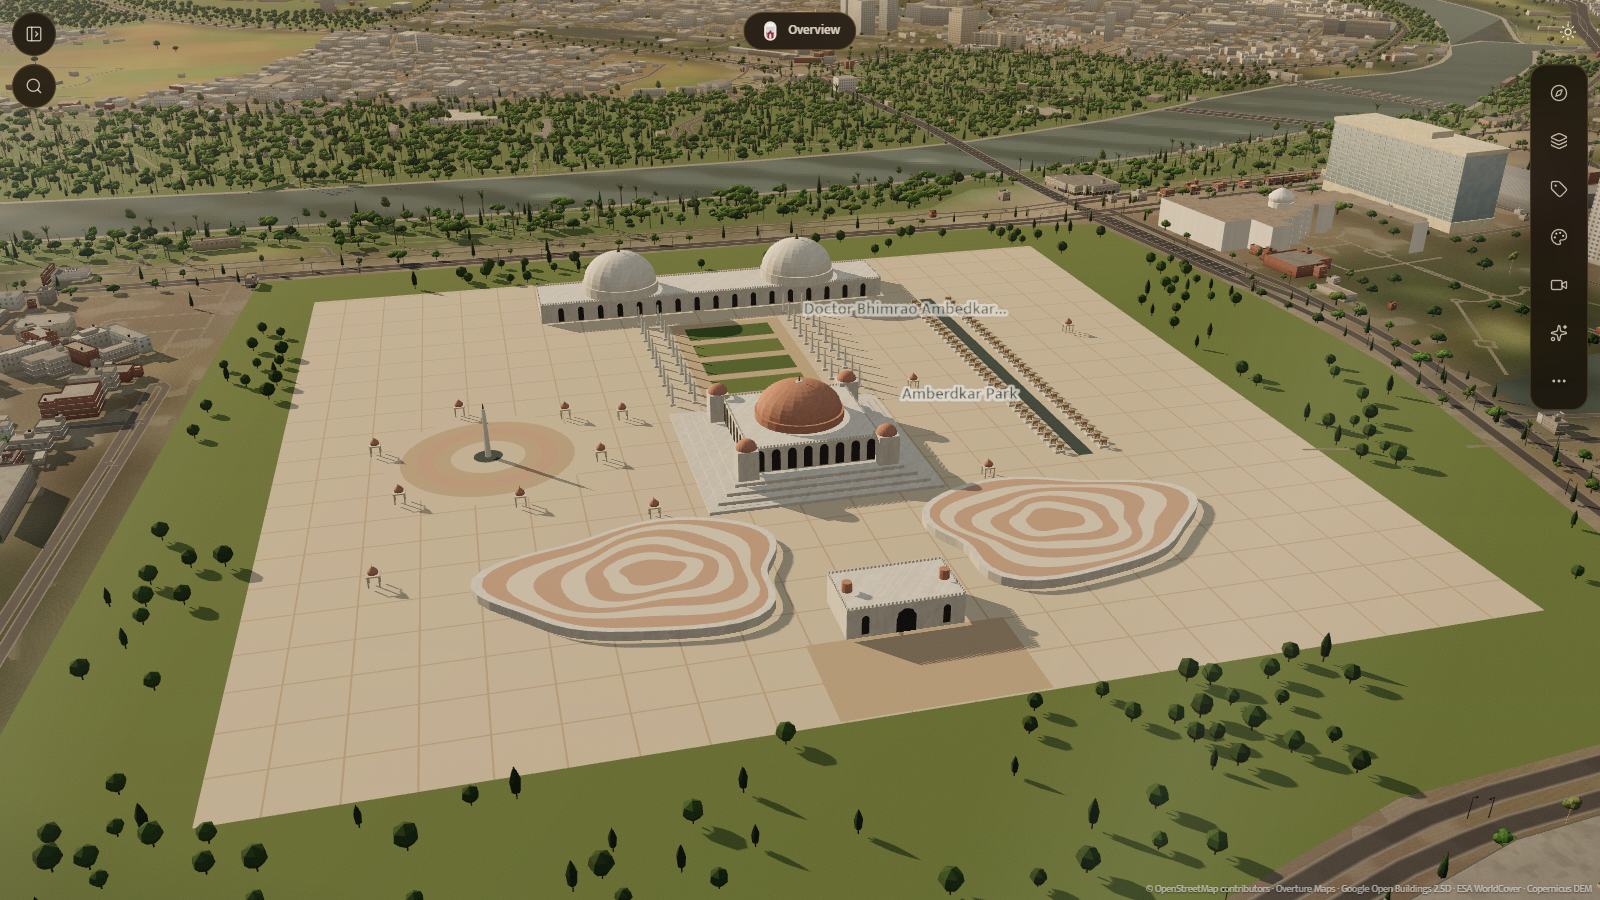
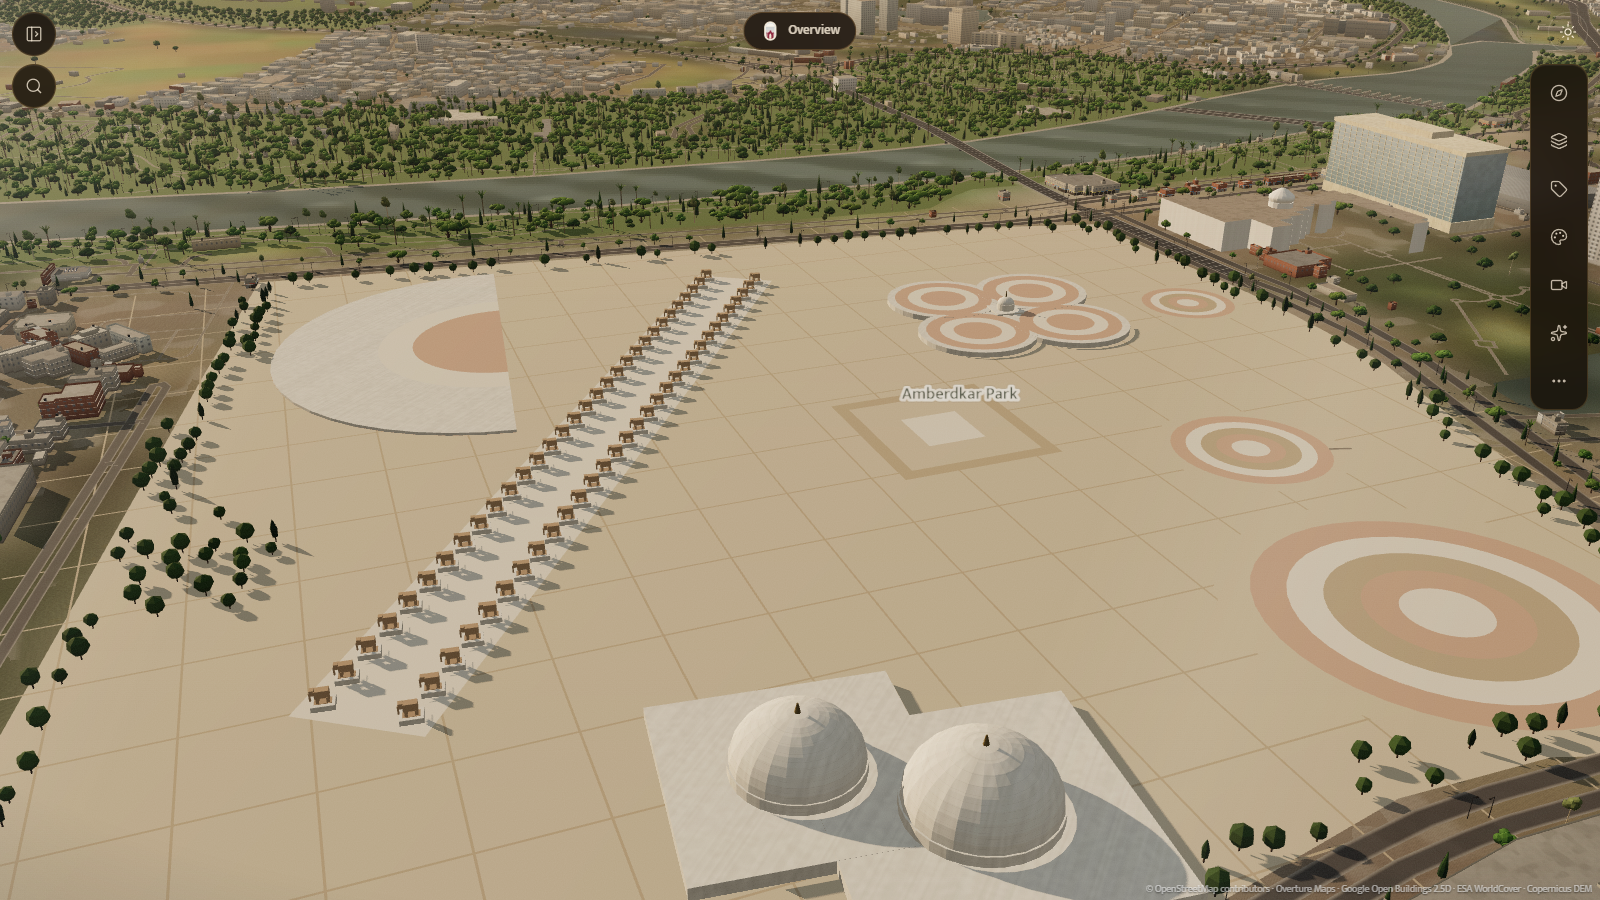
feat(3d): Ambedkar Memorial second rebuild to match reference composition

diff --git a/src/city/landmarks.ts b/src/city/landmarks.ts
@@ -409,19 +409,25 @@ function chhotaImambara(k: Kit, g: Grounds, s: LandmarkSite): void {
 }
 
 function ambedkarMemorial(k: Kit, g: Grounds, s: LandmarkSite): void {
-  // Round 3 rebuild after aerial reference photographs (docs/3d-revamp/references/round-3/parks).
-  // Composition seen from the front, with the entrance on the -v side:
-  //   front   two bean-shaped terraced platforms (contour steps) either side of a gateway block
-  //   centre  the stupa: stepped square base, red-brown dome on a drum, four small corner domes
-  //   rear    central formal garden between four rows of pillars, then a long hall with two domes
-  //   right   Pratibimb Sthal: two rows of 31 elephants (62) either side of a water channel
-  //   left    circular stepped fountain plaza with a tall pillar, flanked by small red kiosks
-  // Materials: pale cream-pink sandstone for paving and walls, red-brown domes and kiosks.
-  // Layout is composed from the photographs, NOT from a surveyed plan: positions, counts of
-  // pillars and the platform outlines are approximate. The 62-elephant count is documented.
+  // Round 3, second rebuild, composed from the user's oblique and top-down reference views
+  // (qualitative only: nothing is traced; the outline is the Overture precinct polygon and
+  // every feature is placed by eye as a FRACTION of that polygon's bounding box, north up).
+  //   NW   cloverleaf (four-lobed) platform with a small stupa
+  //   N    circular inlaid plazas, a large one at the NE
+  //   centre  square-framed court
+  //   SE   two white domed halls
+  //   SW   semicircular tiered amphitheatre
+  //   diagonal band   two rows of 31 elephants (62), pale avenue between
+  //   SE corner   small triangular pool;  S   a grove
+  // The whole precinct is paved (pale sand/pink); trees are narrow edge strips only.
   const ring = PRECINCTS.ambedkar ?? s.ring;
   k.begin(s, 40, 97); g.frame(s);
-  const PALE = 0xd6c5ac, INLAY = 0xc3ab8f, PINK = 0xc9a58f, LAWN = 0x6b7d47;
+  const PALE = 0xcdbfa6, INLAY = 0xbba98d, PINK = 0xc9a791, WHITE = 0xe3dac9, POOL = 0x46585a;
+  let minX = Infinity, maxX = -Infinity, minZ = Infinity, maxZ = -Infinity;
+  for (const [x, z] of ring) { minX = Math.min(minX, x); maxX = Math.max(maxX, x); minZ = Math.min(minZ, z); maxZ = Math.max(maxZ, z); }
+  const W = maxX - minX, H = maxZ - minZ;
+  /** Fractions of the bounding box (north up, x east) to local (u, v). */
+  const P = (fx: number, fy: number): [number, number] => k.local(minX + fx * W, minZ + fy * H);
   const loc: Array<[number, number]> = ring.map(([x, z]) => k.local(x, z));
   const inside = (u: number, v: number): boolean => {
     let c = false;
@@ -431,119 +437,120 @@ function ambedkarMemorial(k: Kit, g: Grounds, s: LandmarkSite): void {
     }
     return c;
   };
-  const box4 = (u0: number, u1: number, v0: number, v1: number, m = 0): boolean =>
-    inside(u0 - m, v0 - m) && inside(u1 + m, v0 - m) && inside(u1 + m, v1 + m) && inside(u0 - m, v1 + m);
-  const rect = (col: number, u0: number, u1: number, v0: number, v1: number, y: number): void => {
-    if (box4(u0, u1, v0, v1)) g.color(col).rect(u0, u1, v0, v1, y);
+  /** Oriented rectangle in world-aligned axes, drawn as a flat quad via a local polygon. */
+  const quad = (col: number, cx: number, cy: number, hx: number, hy: number, y: number): void => {
+    const pts: Array<[number, number]> = [P(cx - hx, cy - hy), P(cx + hx, cy - hy), P(cx + hx, cy + hy), P(cx - hx, cy + hy)];
+    const w = pts.map(([u, v]) => { const q = k.w([u, 0, v]); return [q[0], q[2]]; });
+    g.color(col).polyWorld(w, y);
   };
-  const toWorld = (pts: Array<[number, number]>): number[][] => pts.map(([u, v]) => { const w = k.w([u, 0, v]); return [w[0], w[2]]; });
+  const disc = (col: number, fx: number, fy: number, r: number, y: number): void => {
+    const [u, v] = P(fx, fy); g.color(col).disc(u, v, r * W, y, 40);
+  };
+  const rings = (fx: number, fy: number, r: number, y: number): void => {
+    const cols = [PALE, PINK, WHITE, INLAY, PINK, WHITE];
+    for (let i = 0; i < cols.length; i++) disc(cols[i], fx, fy, r * (1 - i * 0.16), y + i * 0.015);
+  };
 
-  // 1. Paving: pale sandstone over the whole precinct, with an inlaid grid like the real plazas.
-  // The precinct outline is lawn; the paved memorial core sits inside it.
-  g.color(0x6f8049); g.polyWorld(ring, 0.06);
-  const CU0 = -250, CU1 = 250, CV0 = -215, CV1 = 292;
-  const inCore = (u: number, v: number): boolean => u > CU0 - 8 && u < CU1 + 8 && v > CV0 - 8 && v < CV1 + 8;
-  rect(PALE, CU0, CU1, CV0, CV1, 0.07);
-  for (let u = CU0 + 24; u < CU1; u += 24) rect(INLAY, u - 0.35, u + 0.35, CV0, CV1, 0.08);
-  for (let v = CV0 + 24; v < CV1; v += 24) rect(INLAY, CU0, CU1, v - 0.35, v + 0.35, 0.08);
+  // 1. Paving over the whole precinct, with a faint grid.
+  g.color(PALE); g.polyWorld(ring, 0.07);
+  for (let f = 0.06; f < 1; f += 0.06) {
+    quad(INLAY, f, 0.5, 0.0006, 0.5, 0.08);
+    quad(INLAY, 0.5, f, 0.5, 0.0006, 0.08);
+  }
 
-  // 2. Front terraces: two wavy, bean-shaped platforms with contour steps, flanking the gate.
-  const lobe = (cu: number, cv: number, A: number, B: number, scale: number, phase: number): Array<[number, number]> => {
-    const out: Array<[number, number]> = [];
-    for (let i = 0; i < 48; i++) {
-      const t = (i / 48) * Math.PI * 2;
-      const wob = 1 + 0.10 * Math.sin(3 * t + phase) + 0.05 * Math.sin(5 * t);
-      // Pinch toward the central gate: the inner edge (facing u = 0) bulges less.
-      const pinch = 1 - 0.18 * Math.max(0, -Math.sign(cu) * Math.cos(t));
-      out.push([cu + A * scale * Math.cos(t) * wob * pinch, cv + B * scale * Math.sin(t) * wob]);
+  // 2. Circular inlaid plazas.
+  rings(0.785, 0.25, 0.115, 0.1);   // large NE plaza
+  rings(0.59, 0.215, 0.06, 0.1);
+  rings(0.34, 0.07, 0.045, 0.1);
+
+  // 3. Square-framed court at the centre.
+  quad(INLAY, 0.49, 0.40, 0.06, 0.06, 0.11);
+  quad(PALE, 0.49, 0.40, 0.05, 0.05, 0.12);
+  quad(WHITE, 0.49, 0.40, 0.022, 0.022, 0.13);
+
+  // 4. Cloverleaf platform with a small stupa.
+  {
+    const [cu, cv] = P(0.31, 0.24);
+    const R = 0.09 * W;
+    for (let i = 0; i < 4; i++) {
+      const a = (i / 4) * Math.PI * 2 + Math.PI / 4;
+      const lu = cu + Math.cos(a) * R * 0.62, lv = cv + Math.sin(a) * R * 0.62;
+      const ring2: number[][] = [];
+      for (let t = 0; t < 28; t++) { const q = (t / 28) * Math.PI * 2; const w = k.w([lu + Math.cos(q) * R * 0.52, 0, lv + Math.sin(q) * R * 0.52]); ring2.push([w[0], w[2]]); }
+      k.extrudeWorldRing(ring2, 0, 3.2, S.LIME, S.LIME);
+      for (let st = 0; st < 3; st++) {
+        const r3: number[][] = [];
+        for (let t = 0; t < 28; t++) { const q = (t / 28) * Math.PI * 2; const w = k.w([lu + Math.cos(q) * R * (0.45 - st * 0.12), 0, lv + Math.sin(q) * R * (0.45 - st * 0.12)]); r3.push([w[0], w[2]]); }
+        g.color(st % 2 ? WHITE : PINK).polyWorld(r3, 3.25 + st * 0.05);
+      }
     }
-    return out;
-  };
-  for (const sg of [-1, 1]) {
-    const cu = sg * 88, cv = -105, A = 66, B = 44;
-    const outer = lobe(cu, cv, A, B, 1, sg);
-    if (outer.every(([u, v]) => inside(u, v))) {
-      k.extrudeWorldRing(toWorld(outer), 0, 4.2, S.LIME, S.LIME);               // retaining wall
-      for (let i = 0; i < 7; i++) {
-        const r = lobe(cu, cv, A, B, 0.94 - i * 0.12, sg + i * 0.7);            // contour steps
-        g.color(i % 2 ? 0xe3d6c1 : PINK).polyWorld(toWorld(r), 4.25 + i * 0.06);
+    k.box(cu - 9, cu + 9, 0, 4, cv - 9, cv + 9, S.LIME);
+    k.cylinder(cu, cv, 5.5, 5.5, 4, 8, 20, S.LIME);
+    k.hemi(cu, cv, 5.2, 8, S.LIME, 0.75);
+    k.cylinder(cu, cv, 0.5, 0.15, 12, 16, 8, S.GILT);
+  }
+
+  // 5. Two white domed halls (SE).
+  for (const [fx, fy, R2] of [[0.835, 0.57, 0.034], [0.785, 0.635, 0.03]] as Array<[number, number, number]>) {
+    const [u, v] = P(fx, fy);
+    const r = R2 * W;
+    k.box(u - r * 1.9, u + r * 1.9, 0, 5, v - r * 1.9, v + r * 1.9, S.LIME);
+    k.cylinder(u, v, r, r, 5, 9, 28, S.LIME);
+    k.hemi(u, v, r * 0.98, 9, S.LIME, 0.8);
+    k.cylinder(u, v, 1.1, 0.3, 9 + r * 0.78, 9 + r * 0.78 + 3.5, 8, S.GILT);
+  }
+
+  // 6. Semicircular tiered amphitheatre (SW), opening toward the centre.
+  {
+    const [cu, cv] = P(0.225, 0.665);
+    const R = 0.17 * W;
+    for (let i = 0; i < 5; i++) {
+      const r1 = R * (1 - i * 0.15);
+      const pts: number[][] = [];
+      for (let t = 0; t <= 24; t++) { const a = Math.PI * 0.5 + (t / 24) * Math.PI; const w = k.w([cu + Math.cos(a) * r1 * -1, 0, cv + Math.sin(a) * r1]); pts.push([w[0], w[2]]); }
+      // Left-facing semicircle: x from centre outward to -u side.
+      g.color(i % 2 ? WHITE : PINK).polyWorld(pts, 0.2 + i * 0.5);
+      if (i === 0) k.extrudeWorldRing(pts, 0, 1.6, S.LIME, S.LIME);
+    }
+  }
+
+  // 7. Elephant avenue: two diagonal rows of 31 elephants (62).
+  {
+    const [u0, v0] = P(0.14, 0.43), [u1, v1] = P(0.68, 0.82);
+    const dx = u1 - u0, dv = v1 - v0, len = Math.hypot(dx, dv), ux = dx / len, uv = dv / len, nx = -uv, nv = ux;
+    const hw = 26;
+    const band = [[u0 + nx * hw, v0 + nv * hw], [u1 + nx * hw, v1 + nv * hw], [u1 - nx * hw, v1 - nv * hw], [u0 - nx * hw, v0 - nv * hw]]
+      .map(([u, v]) => { const q = k.w([u, 0, v]); return [q[0], q[2]]; });
+    g.color(WHITE).polyWorld(band, 0.09);
+    for (let i = 0; i < 31; i++) {
+      const t = (i + 0.5) / 31;
+      for (const sg of [-1, 1]) {
+        const u = u0 + dx * t + nx * 17 * sg, v = v0 + dv * t + nv * 17 * sg;
+        if (!inside(u, v)) continue;
+        k.box(u - 4.2, u + 4.2, 0, 2.2, v - 3.4, v + 3.4, S.LIME);
+        g.elephant(u, v, 2.2, 1.7, ux >= 0 ? 1 : -1);
       }
     }
   }
-  // Gateway block between the terraces, with the monumental arched, relief-faced entrance.
-  if (box4(-24, 24, -166, -138)) {
-    k.box(-24, 24, 0, 13, -166, -138, S.LIME);
-    k.arcade('v0', -166, -9, 9, 0, 8, 10, 1, S.GLASS, true);
-    k.arcade('v0', -166, -22, -11, 1.5, 3, 8, 1); k.arcade('v0', -166, 11, 22, 1.5, 3, 8, 1);
-    k.merlons(-24, 24, -166, -138, 13, S.LIME);
-    for (const sg of [-1, 1]) k.cylinder(sg * 20, -152, 2.2, 2.0, 13, 17, 10, S.REDSTONE);
-  }
-  // Steps and forecourt in front of the gate.
-  rect(INLAY, -40, 40, -214, -166, 0.09);
 
-  // 3. The stupa and its stepped base, with four small corner domes.
-  for (let i = 0; i < 4; i++) k.box(-56 + i * 5, 56 - i * 5, 0, 1.6 + i * 1.6, -56 + i * 5, 56 - i * 5, S.LIME);
-  k.box(-32, 32, 6.4, 19, -32, 32, S.LIME);
-  k.arcadeAll(-32, 32, -32, 32, 7, 4.2, 10.5, 8, S.GLASS);
-  k.merlons(-32, 32, -32, 32, 19, S.LIME);
-  k.cylinder(0, 0, 22, 22, 19, 23, 28, S.REDSTONE);
-  k.hemi(0, 0, 21, 23, S.REDSTONE, 0.66);
-  k.cylinder(0, 0, 2.4, 1.5, 36, 37.5, 10, S.LIME); k.cylinder(0, 0, 0.5, 0.15, 37.5, 40, 8, S.GILT);
-  for (const u of [-34, 34]) for (const v of [-34, 34]) { k.box(u - 5, u + 5, 6.4, 21, v - 5, v + 5, S.LIME); k.hemi(u, v, 5, 21, S.REDSTONE, 0.9); }
-
-  // 4. Rear: formal garden between pillar rows, then the long hall with two large domes.
-  rect(INLAY, -34, 34, 70, 190, 0.09);
-  for (let i = 0; i < 4; i++) rect(i % 2 ? 0x587040 : LAWN, -26 + (i % 2) * 0, 26, 78 + i * 28, 98 + i * 28, 0.12);
-  for (let v = 70; v <= 196; v += 14) for (const u of [-52, -40, 40, 52]) {
-    if (!inside(u, v)) continue;
-    k.box(u - 1.4, u + 1.4, 0, 1.3, v - 1.4, v + 1.4, S.LIME);
-    k.lathe(u, v, [[0.9, 1.3], [0.5, 12], [0, 13.2]], 6, S.LIME, 0);
-  }
-  if (box4(-110, 110, 214, 252)) {
-    k.box(-110, 110, 0, 12, 214, 252, S.LIME);
-    k.arcade('v0', 214, -104, 104, 0.6, 3.4, 8.5, 17, S.GLASS);
-    k.merlons(-110, 110, 214, 252, 12, S.LIME);
-    for (const u of [-58, 58]) { k.cylinder(u, 233, 24, 24, 12, 18, 28, S.LIME); k.hemi(u, 233, 23, 18, S.LIME, 0.82); k.cylinder(u, 233, 1.4, 0.4, 36, 40, 8, S.GILT); }
+  // 8. Small triangular pool (SE corner).
+  {
+    const tri: number[][] = [P(0.93, 0.86), P(0.88, 0.95), P(0.97, 0.95)].map(([u, v]) => { const q = k.w([u, 0, v]); return [q[0], q[2]]; });
+    g.color(POOL).polyWorld(tri, 0.12);
   }
 
-  // 5. Pratibimb Sthal: two rows of 31 elephants (62) on pedestals, water channel between.
-  const ex0 = -34, step = 7.4;
-  rect(0x4a5a58, -140, -132, ex0 - 6, ex0 + 31 * step + 4, 0.1);                    // channel
-  for (let i = 0; i < 31; i++) {
-    const v = ex0 + i * step;
-    for (const u of [-124, -148]) {
-      if (!inside(u, v)) continue;
-      k.box(u - 2.6, u + 2.6, 0, 1.4, v - 1.9, v + 1.9, S.LIME);
-      g.elephant(u, v, 1.4, 0.95, u < -136 ? 1 : -1);
-    }
-  }
-
-  // 6. Left: stepped circular fountain plaza with a tall pillar, ringed by small red kiosks.
-  const fu = 150, fv = 30;
-  if (inside(fu - 55, fv) && inside(fu + 55, fv)) {
-    const cols = [PALE, INLAY, PINK, INLAY, PALE];
-    for (let i = 0; i < 5; i++) g.color(cols[i]).disc(fu, fv, 50 - i * 8, 0.1 + i * 0.12, 40);
-    g.color(0x4a5a58).disc(fu, fv, 7, 0.75, 20);
-    k.cylinder(fu, fv, 1.6, 0.9, 0.7, 26, 10, S.LIME); k.cylinder(fu, fv, 0.5, 0.1, 26, 29, 8, S.GILT);
-    for (let i = 0; i < 6; i++) {
-      const t = (i / 6) * Math.PI * 2 + 0.3;
-      k.chhatri(fu + Math.cos(t) * 56, fv + Math.sin(t) * 56, 4.4, 0.4, S.REDSTONE);
-    }
-  }
-  // Red kiosks around the stupa plaza and corners.
-  for (const [u, v] of [[-80, 60], [80, 60], [-80, -50], [80, -50], [200, -80], [-200, 120]] as Array<[number, number]>) {
-    if (inside(u, v)) k.chhatri(u, v, 4.4, 0.2, S.REDSTONE);
-  }
-
-  // 7. Trees: clusters on the lawns around the paved core, never over the plazas.
+  // 9. Trees: narrow edge strips and one grove, never over the plazas.
   let seed = 7;
   const hash = (a: number, b: number): number => { const h = Math.sin(a * 12.9898 + b * 78.233) * 43758.5453; return h - Math.floor(h); };
-  for (let u = -340; u <= 330; u += 15) {
-    for (let v = -420; v <= 340; v += 15) {
-      if (inCore(u, v) || !inside(u, v) || !inside(u + 10, v) || !inside(u - 10, v) || !inside(u, v + 10) || !inside(u, v - 10)) continue;
-      const clump = Math.sin(u * 0.021) * Math.cos(v * 0.017) + 0.5 * Math.sin((u + v) * 0.033);
-      if (hash(u, v) > 0.28 + 0.5 * clump) continue;
-      g.tree(u + (hash(v, u) - 0.5) * 9, v + (hash(u * 1.3, v) - 0.5) * 9, 8 + hash(u, v * 2) * 5, hash(u, v + 3) < 0.25, seed++);
+  for (let u = -500; u <= 500; u += 13) {
+    for (let v = -500; v <= 500; v += 13) {
+      if (!inside(u, v)) continue;
+      const edge = !(inside(u + 20, v) && inside(u - 20, v) && inside(u, v + 20) && inside(u, v - 20));
+      const [gu, gv] = P(0.5, 0.9);
+      const grove = Math.hypot(u - gu, v - gv) < 0.06 * W;
+      if (!edge && !grove) continue;
+      if (hash(u, v) > (grove ? 0.55 : 0.7)) continue;
+      g.tree(u + (hash(v, u) - 0.5) * 5, v + (hash(u * 1.3, v) - 0.5) * 5, 8 + hash(u, v * 2) * 5, hash(u, v + 3) < 0.2, seed++);
     }
   }
 }

diff --git a/docs/3d-revamp/ROUND_3_REPORT.md b/docs/3d-revamp/ROUND_3_REPORT.md
@@ -119,3 +119,8 @@ Changes are in `buildingMaterial.ts` and `roadMaterial.ts`. Checked in `night_ha
 ## Update: Ambedkar Memorial rebuilt
 - **What changed** (`ambedkarMemorial()` in `landmarks.ts`), composed from the aerial reference photo in `references/round-3/parks/`: a paved core with an inlaid grid inside a lawn-and-tree precinct; two bean-shaped contour-stepped terraces in front; a gateway block; the stupa on a stepped base with four corner domes; a formal garden between four pillar rows; a long rear hall with two large domes; two rows of 31 elephants (62) either side of a water channel; and a stepped circular fountain plaza with a tall pillar ringed by red kiosks. Trees are now clumped on the lawns outside the core instead of two straight rows. Screenshots: `ambedkar_top.png`, `ambedkar_oblique.png`.
 - **Still approximate:** positions, the terrace outlines, pillar counts and sizes come from the photograph by eye, not a plan. The 62 elephants are documented, but the 112 ft stupa height is a model value (the stupa here reaches about 40 m with its finial). The real plaza is red and cream sandstone; the model is mostly cream with red domes and kiosks, so it still reads paler than the photograph. The paved core is a rectangle, not the real outline. Night lighting for the new parts was not reviewed. This has not been compared side by side with the photograph at matching camera angles.
+
+## Update: Ambedkar second rebuild (replaces the previous Ambedkar entry)
+- Rebuilt after the user's oblique photo and a top-down map view. The top-down view is Google imagery, so it was used only for composition. Nothing was traced: the outline is the Overture precinct polygon and each feature sits at an eyeballed fraction of that polygon's bounding box.
+- **Now:** all-paved precinct, four-lobed platform with a small stupa (NW), inlaid circular plazas (large one NE), a square court, two white domed halls (SE), a semicircular tiered amphitheatre (SW), a diagonal avenue of 62 elephants on pedestals, a small triangular pool (SE corner) and narrow edge tree strips plus one grove. No lawn margin. Screenshots `ambedkar_top.png`, `ambedkar_oblique.png`.
+- **Wrong or missing against the references:** the elephant avenue is far shorter and sparser than the real one; the amphitheatre is a flat disc segment (no seating tiers or columns); the cloverleaf lobes read as concentric rings rather than white sculpted forms; the domed halls are simple blocks, and the real site's long rectangular buildings, pillar rows and fine patterned paving are absent. Positions are approximate; side-by-side comparison at matching angles was not done. Night lighting for the new layout was not checked.
